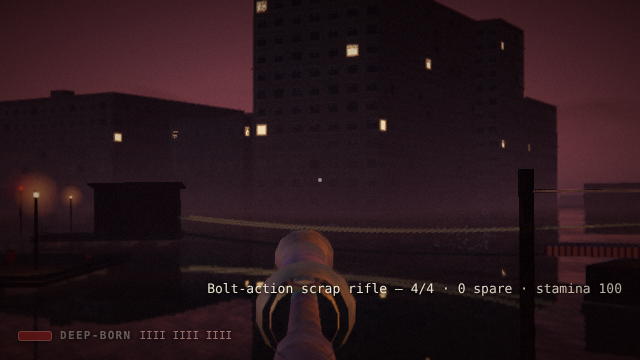
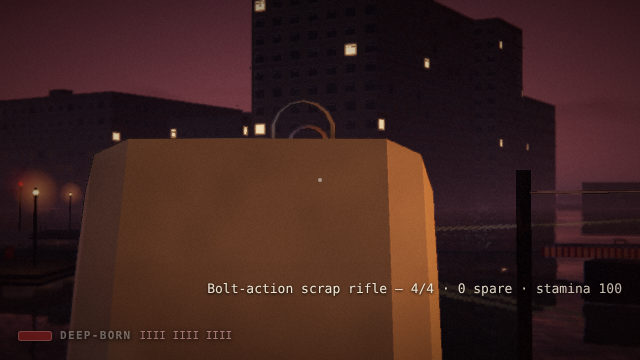
Weapons: drop-stock under the bore line so ADS sights stay clear
Claude-Session: https://claude.ai/code/session_01ULcSdNPKB7gXcyoxvfvEui

diff --git a/drowned-earth/src/weapons/WeaponKit.js b/drowned-earth/src/weapons/WeaponKit.js
@@ -140,7 +140,7 @@ export function buildWeapon(id, def, mods, styles, kind) {
     add(body, B === 'crossbow' || B === 'sling' ? 'wood' : 'steel');
     tip = { speargun: -0.85, flare_pistol: -0.18, nail_rifle: -0.72, crossbow: -0.6, sling: -0.1, double_pipe: -0.73, bolt_rifle: -0.87 }[B] ?? -0.5;
     // grips and stocks
-    if (grip === 'wood_stock') add(cached('stock', () => { const s = new THREE.Shape(); s.moveTo(0, 0); s.lineTo(0.3, 0.02); s.quadraticCurveTo(0.34, -0.06, 0.3, -0.13); s.lineTo(0.18, -0.08); s.lineTo(0.06, -0.06); s.lineTo(0, 0); const gg = new THREE.ExtrudeGeometry(s, { depth: 0.04, bevelEnabled: true, bevelSize: 0.008, bevelThickness: 0.008, bevelSegments: 2 }); gg.translate(0, 0, -0.02); gg.rotateY(-Math.PI / 2); return gg; }), 'wood', 0, 0.06, 0.06);
+    if (grip === 'wood_stock') add(cached('stock', () => { const s = new THREE.Shape(); s.moveTo(0, 0); s.lineTo(0.3, 0.02); s.quadraticCurveTo(0.34, -0.06, 0.3, -0.13); s.lineTo(0.18, -0.08); s.lineTo(0.06, -0.06); s.lineTo(0, 0); const gg = new THREE.ExtrudeGeometry(s, { depth: 0.04, bevelEnabled: true, bevelSize: 0.008, bevelThickness: 0.008, bevelSegments: 2 }); gg.translate(0, 0, -0.02); gg.rotateY(-Math.PI / 2); return gg; }), 'wood', 0, 0.0, 0.06); // drop-stock: its comb sits under the bore line so the sights stay clear
     else add(cached('pgrip', () => { const gg = new THREE.CapsuleGeometry(0.016, 0.08, 4, 8); gg.rotateX(0.35); return gg; }), gripRole, 0, -0.03, 0.04);
     if (B === 'crossbow') { // the truck leaf-spring bow and its cable
       const spring = cached('leaf', () => { const gs = []; for (let k = 0; k < 3; k++) { const c = new THREE.TorusGeometry(0.55 - k * 0.04, 0.008, 4, 30, Math.PI * 0.42); c.rotateZ(Math.PI * 0.29); c.scale(1, 0.35, 1); c.translate(0, -0.12 - k * 0.012 + 0.2, 0); gs.push(c.toNonIndexed()); } const m = mergeGeometries(gs); m.rotateX(Math.PI / 2); m.translate(0, 0.04, -0.62 + 0.2); return m; });

diff --git a/drowned-earth/src/weapons/Arms.js b/drowned-earth/src/weapons/Arms.js
@@ -289,7 +289,7 @@ export class Arms {
     this.drawT = Math.max(0, (this.drawT || 0) - dt);
     // ranged guns carry a stock behind the grip, so they rest further out; ADS lines the sight up under the eye
     const restX = ranged ? 0.17 : 0.24, restY = ranged ? -0.17 : -0.22, restZ = ranged ? -0.46 : -0.36;
-    const adsY = -0.088, adsZ = -0.5, a = ranged ? this.ads : 0;
+    const adsY = -0.082, adsZ = -0.52, a = ranged ? this.ads : 0;
     const x = restX * (1 - a) + Math.sin(t * 1.3) * sw, y = restY + (adsY - restY) * a + Math.sin(t * 2.1) * sw * 0.7 - this.drawT * 0.6;
     this.mesh.position.set(x, y, restZ + (adsZ - restZ) * a + this.recoil * 0.06);
     const sweep = Math.sin(this.swing * Math.PI) * (this.swingHeavy ? 1.3 : 0.9);
